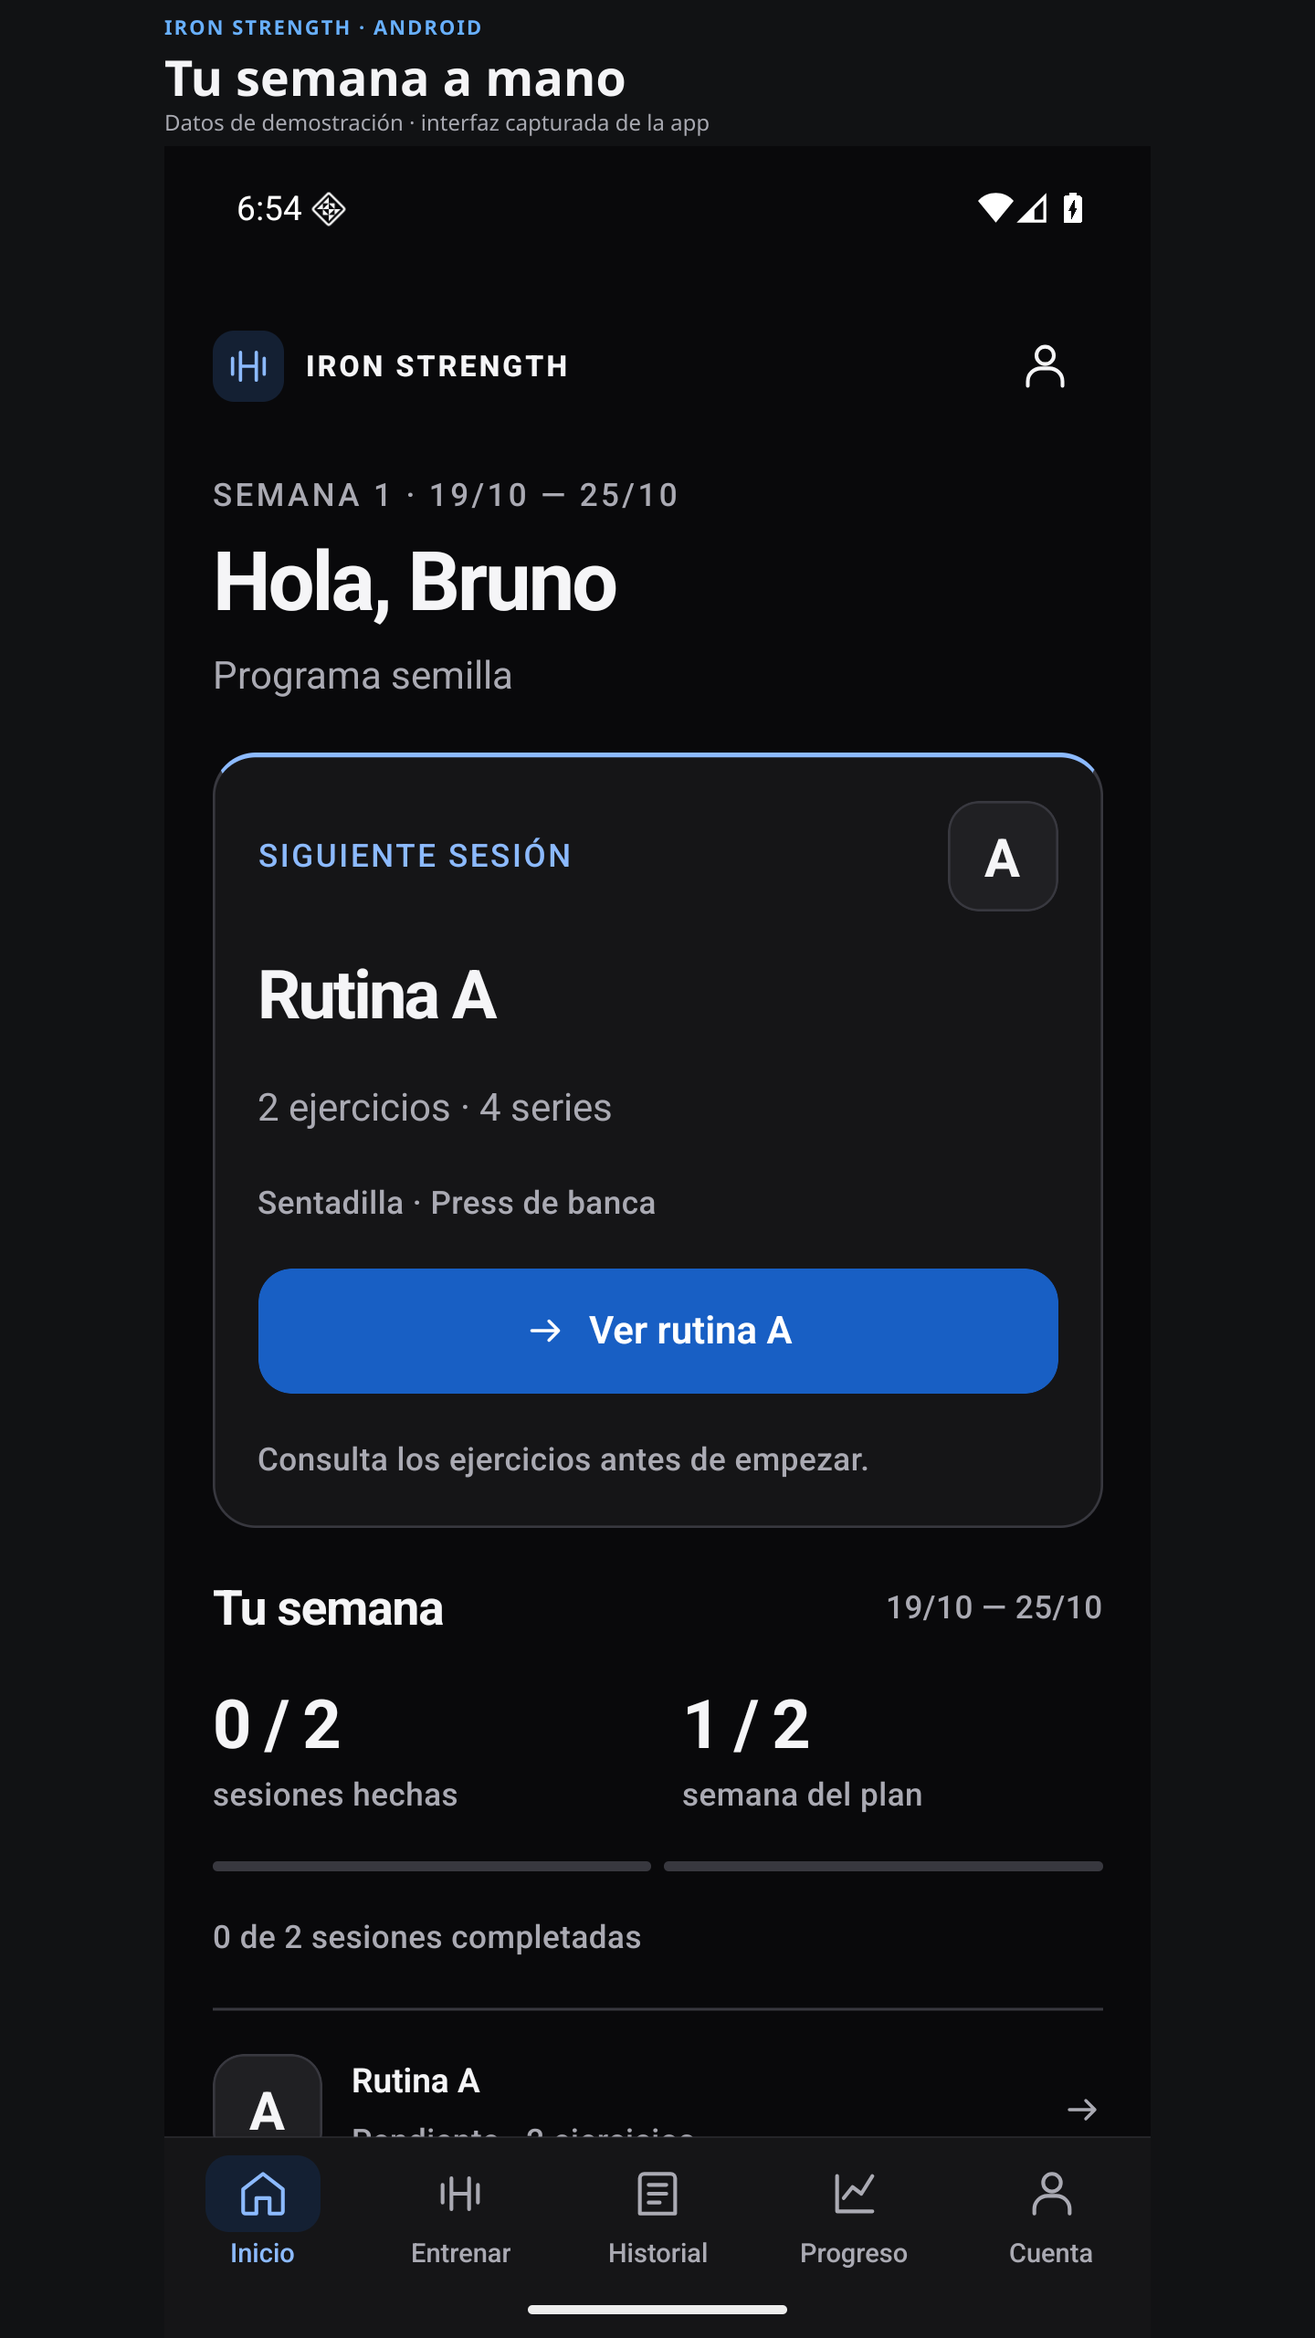
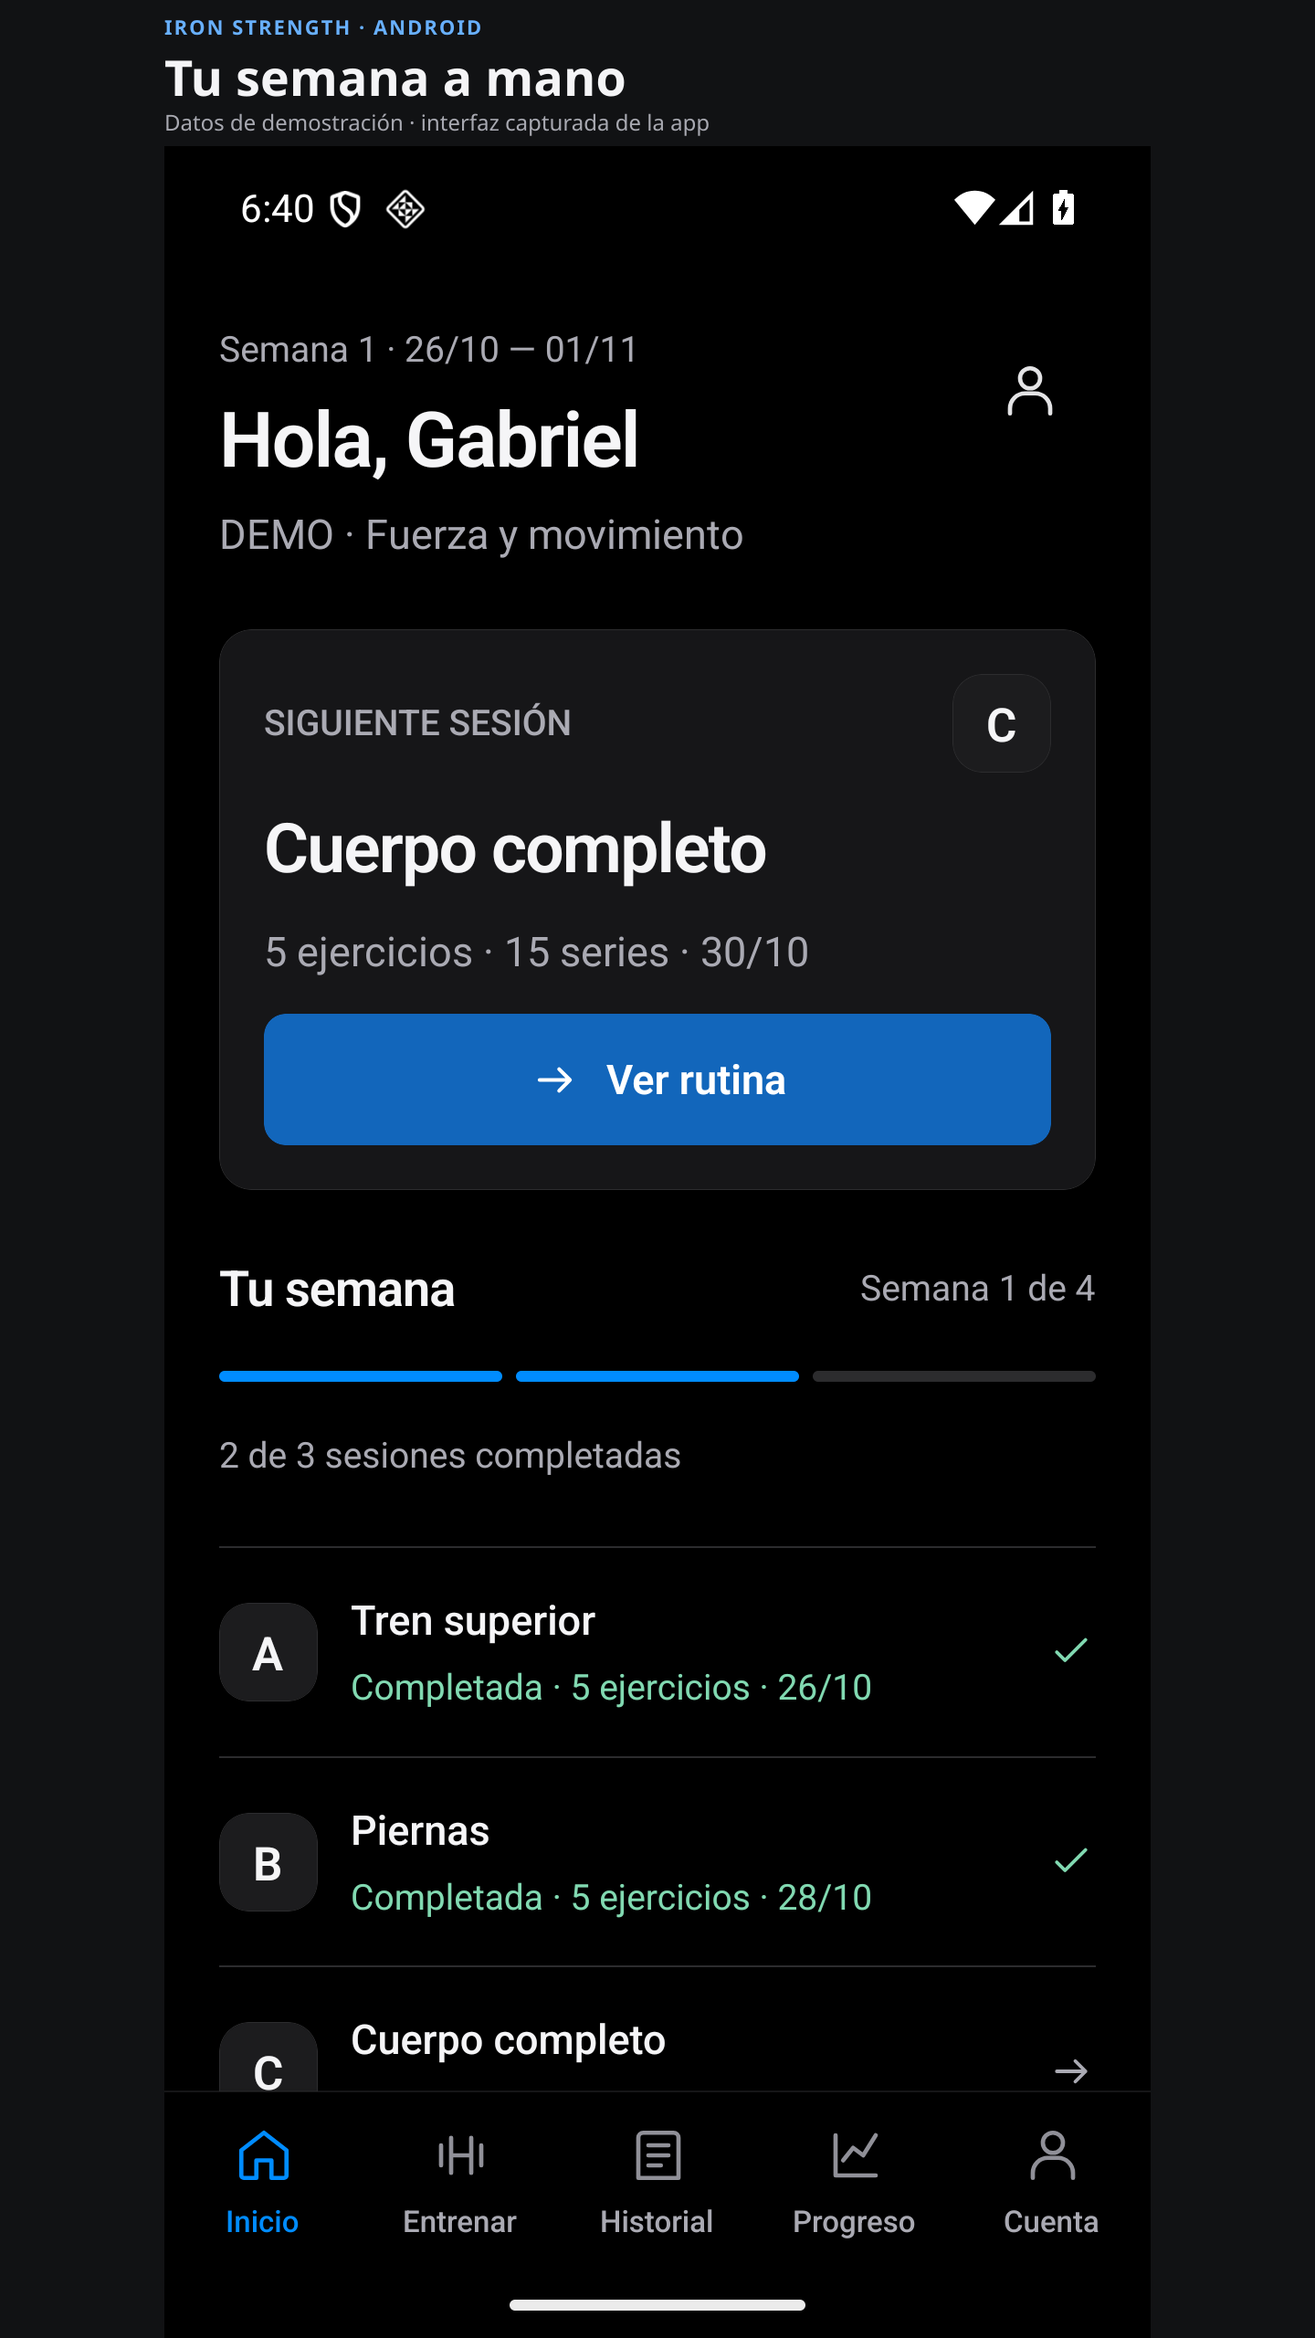
T203: Refresh native Android store drafts with artifact provenance

diff --git a/specs/009-product-quality/validation.md b/specs/009-product-quality/validation.md
@@ -766,3 +766,15 @@ Capturador corregido: MaestroCLI2.11.0 oficial/hash fijo, mismo simulador propio
[1 lines of base64/hex data omitted]
 
 Entrega Android/iOS de T222 completada en previews; T201/T202 siguen abiertos por sus requisitos físicos/de distribución. Fuente de aplicación estable desde7d9a7e8; cambios posteriores son solo arnés/documentación. Se retiraron solo los dos AVD propios y el staging de compilación Android después de verificar APK/mapas/redescarga; los servidores54321/55321/3104/3105/8087/8090/8091 seguían abiertos antes/después. APK/mapas/archivos originales y datos de demo conservados; claves originales de firma y respaldos ajenos intactos. No se reinició un job vivo ni se repitieron las regresiones sin una corrección nueva que lo justificara.
+
+### T203 · Capturas Android actuales · 30 de octubre
+
+Las cuatro fuentes de ficha anteriores se conservaron privadamente antes de sustituirlas. APK local quality9, fuente a1c5d27, Expo58.0.21/RN0.88.1, identidad .quality exclusiva y origen QA3105→3104→55321. Contador9 solo en staging; distribución Android sigue6 e iOS8. Hermes del APK idéntico al generado, mapa compuesto/197contenidos propios y904archivos de aplicación cotejados, incluida T222; mismo certificado QA, permisos conservados,28bibliotecas x86_64/ZIP alineadas16KB. No se subió a EAS ni se confundió con el instalador de alumnos. Huellas técnicas públicas cerradas en source/capture.json.
+
+Actualización8→9 en el AVD propio4KB sin desinstalar: UID/marcador y un archivo SQLite idénticos. Acceso nativo normal con el alumno ficticio existente de la demo; Inicio oscuro/claro conserva2/3sesiones, sesiónC de5ejercicios/15series. Registro local40kg×10, check circular y descanso1:28 capturados; Progreso muestra el volumen existente de675kg en12semanas con un único punto, sin fabricar historial. Cuatro originales1080×2400 revisados y capturados con adb exec-out screencap. El borrador exclusivo de captura se descartó mediante la confirmación de la app, no finalizado/enviado; sus dos endpoints de resultados devolvieron404. Apariencia oscura restaurada y19filas SQLite previas byte por byte conservadas. Sin semillas/reset, usuarios nuevos, cambios de rutinas o resultados remotos; ningún cambio productivo.
+
+Incidencias conservadas: primer arranque System UI resuelto con Wait, sin atribuirlo a un crash de la app. Una lectura uiautomator falló al obtener estado idle con el cronómetro y el arnés anterior releyó XML antiguo; la captura actual y SQLite confirmaron entrenamiento abierto/guardado, sin reproducir bloqueo del inicio. El helper ahora exige archivo XML único y confirmación de dump nuevo. Un gesto automático de scroll activó el campo de repeticiones y no encontró el descarte; sin cambios de valores, se cerró teclado y se navegó con controles observados hasta confirmar. Las consultas sqlite3 nativas del arnés agotaron tiempo; app detenida y SQLite/journal copiados privadamente para lectura local, sin escrituras SQL. No presentar las observaciones fallidas como pruebas del producto aprobadas.
+
+El generador verifica campos técnicos cerrados y las cuatro huellas antes de sustituir salidas. Dos controles negativos en copias privadas (campo extra y hash de imagen incorrecto) rechazados, conservando todas las composiciones/manifiesto anteriores. Generación normal aprobada: cuatro1440×2560RGB y gráfico1024×500RGB, textos alternativos≤140, extracción RGB idéntica a cada fuente completa. Las cinco exportaciones se revisaron visualmente; hora/barras/indicador QA sin ocultar. Son materiales provisionales, no capturas del AAB de producción ni de iPhone.
+
+Evidencia privada: t203-quality9-{apk-proof,install-proof,login-proof}, t203-capture-state-proof, t203-generator-guards-proof, t203-current-captures y t203-previous-store-assets. T203 conserva pendientes formularios/acceso dedicado del revisor/beta/materiales finales y captura funcional iOS actual. Cierre: npm run check terminal0 a10:19:56UTC,1430unitarias/182archivos,14Python/build; diez avisos de lint anteriores, cero errores.1286fuentes idénticas entre origen y copia propia de verificación. La primera supervisión terminó143 después de los mensajes finales del build, sin recibo terminal: conservada como interrumpida, no aprobada; repetición completa con supervisor persistente terminal0 y huellas estables. Evidencia t203-check-{first-state,state,source-private}, t203-root-check-first.log y t203-root-check.log. Se cerró solo el AVD propio5564 y retiró su compilación Android generada tras volver a comprobar APK/bundle/mapa; servidores/puertos del propietario iguales antes/después, SQLite y evidencia conservados. Producción permanece en el build publicado de T221. No se repitieron suites destructivas sobre55321 ni pruebas de aplicación sin cambios en su código.

diff --git a/docs/store-release/assets/google-play/README.md b/docs/store-release/assets/google-play/README.md
@@ -1,20 +1,22 @@
 # Google Play · candidatos de ficha
 
-Cuatro composiciones Android y un gráfico de presentación, todavía sin subir. Las capturas proceden del APK quality de T202 con cuentas ficticias de la base aislada; muestran funciones reales, no el prototipo HTML. No contienen datos de alumnos reales. Son referencias de preparación, no evidencia de aprobación de la tienda.
+Cuatro composiciones Android y un gráfico de presentación, todavía sin subir. Las capturas se actualizaron el 30 de octubre desde el APK quality9, compilado desde a1c5d27 con Expo 58.0.21 / React Native 0.88.1. Incluyen la corrección T222 y usan una cuenta ficticia ya existente en la base aislada. Muestran la interfaz nativa funcional, sin datos de alumnos reales. Siguen siendo candidatos de preparación; no acreditan aprobación de la tienda ni aceptación en teléfonos.
 
-| Archivo             | Contenido                                     | Tamaño      |
-| ------------------- | --------------------------------------------- | ----------- |
-| 01-home-dark.png    | Inicio y siguiente rutina, oscuro             | 1440 × 2560 |
-| 02-workout.png      | Registro con objetivos por serie y superserie | 1440 × 2560 |
-| 03-progress.png     | Volumen de doce semanas y acceso a resultados | 1440 × 2560 |
-| 04-home-light.png   | Inicio claro con texto ampliado               | 1440 × 2560 |
-| feature-graphic.png | Ilustración vectorial de presentación         | 1024 × 500  |
+| Archivo             | Contenido                             | Tamaño      |
+| ------------------- | ------------------------------------- | ----------- |
+| 01-home-dark.png    | Inicio y siguiente rutina, oscuro     | 1440 × 2560 |
+| 02-workout.png      | Serie registrada y descanso activo    | 1440 × 2560 |
+| 03-progress.png     | Volumen de doce semanas               | 1440 × 2560 |
+| 04-home-light.png   | Inicio y siguiente rutina, claro      | 1440 × 2560 |
+| feature-graphic.png | Ilustración vectorial de presentación | 1024 × 500  |
 
-Todas las exportaciones son PNG RGB, sin canal alfa. Cada composición conserva los 1080 × 2400 píxeles de la captura completa, sin escala, recorte o cambios, y añade encabezado y márgenes fuera de ella. El gráfico de presentación es una ilustración, no una pantalla de la app. El texto «Datos de demostración» identifica las cuentas ficticias; el gráfico de progreso conserva sus valores reales de prueba, incluso su descenso.
+Todas las exportaciones son PNG RGB, sin canal alfa. Cada composición conserva los 1080 × 2400 píxeles de la captura completa, sin escala, recorte o cambios, y añade encabezado y márgenes fuera de ella. El gráfico de presentación es una ilustración, no una pantalla de la app. El texto «Datos de demostración» identifica la cuenta ficticia. El gráfico conserva los datos existentes, incluido su único punto; no se inventaron resultados para llenarlo. El borrador usado para capturar una serie y su descanso se descartó después desde la propia app, sin enviar el entrenamiento.
 
 ## Reproducción y comprobación
 
-Desde la raíz: `node docs/store-release/generate-google-play.mjs`. Usa Sharp y Prettier existentes y Noto Sans instalada en el sistema, sin descargar fuentes o añadir dependencias. Los originales están en source; el SVG de presentación también es editable. El generador comprueba dimensiones, canales y textos alternativos de hasta 140 caracteres. Extrae el rectángulo de interfaz y compara todos sus píxeles RGB con el original; un cambio falla la generación. manifest.json registra origen, dimensiones y SHA-256 tanto de fuentes como de exportaciones.
+Desde la raíz: `node docs/store-release/generate-google-play.mjs`. Usa Sharp y Prettier existentes y Noto Sans instalada en el sistema, sin descargar fuentes o añadir dependencias. Los originales están en source; el SVG de presentación también es editable. `source/capture.json` vincula las cuatro imágenes al APK, bundle Hermes, mapa compuesto, certificado y commit inspeccionados. Solo admite campos técnicos explícitos: no añadir credenciales, identificadores de cuentas o rutas privadas. El generador rechaza campos ajenos y verifica las cuatro huellas antes de sustituir composiciones.
+
+También comprueba dimensiones, canales y textos alternativos de hasta 140 caracteres. Extrae el rectángulo de interfaz y compara todos sus píxeles RGB con el original; un cambio falla la generación. manifest.json registra la procedencia, dimensiones y SHA-256 tanto de fuentes como de exportaciones. El APK quality9 tiene identidad exclusiva de QA y no reemplaza el instalador preview6 ni es un candidato de producción.
 
 Se revisaron visualmente las cinco exportaciones: títulos legibles, interfaz completa y distinción entre Android, demostración e ilustración. Las barras del sistema conservan la hora y el indicador de QA de las capturas originales. Antes del envío, recapturar desde el candidato de producción con notificaciones despejadas y datos de revisión adecuados; contrastar el contenido con ese binario y la consola. No ocultar indicadores reconstruyendo la interfaz. Las capturas iPhone siguen pendientes y no se sustituyen por estas imágenes.
 

diff --git a/specs/009-product-quality/tasks.md b/specs/009-product-quality/tasks.md
@@ -19,7 +19,7 @@ Acceso Supabase desde Codex resuelto el 25-oct-2026 mediante el conector autoriz
 - [x] T200 · Productividad web con posición por pestaña, guardado explícito por teclado y acabado compacto; 40 acciones frente a 95, software verificado y publicado en L. Aceptación física separada.
 - [ ] T201 · Previews vigentes con T222: Android6 firmado, subido/redescargado idéntico y actualizado5→6 sin desinstalar en4/16KB, conservando UID/marcador/SQLite y acceso frío offline. iOS simulador8: bundle/mapa/recibo y198archivos de app verificados; arranque, reapertura y tres capturas nativas de acceso claro/oscuro aprobados con revisión original separada. Primeros avisos System UI de Android e imágenes negras de simctl iOS conservados, sin presentarlos como pasadas limpias. Circuito autenticado quality7 histórico separado; pendientes firma iPhone/cuentas y aceptación física.
 - [ ] T202 · T221 conserva cuatro actores nativos/20 series. SDK actual verificado con quality8: nueve tipos, recuperación fría de series/foco/descanso, SQLite→API→SQL, dos reintentos sin duplicados y RLS de cuatro cuentas;239 Chromium+239 WebKit en fases diferenciadas. Mapas reales actuales Android6/iOS8 con197contenidos propios cada uno y recibo iOS ligados a los bundles. Acceso nativo iOS8 sin sesión verificado; circuito autenticado quality7 con documento2/respuesta perdida/RLS es evidencia histórica separada.463pruebas móviles/1430raíz/14Python/build,22E2E de reconexión y ocho accesos reales de demo aprobados. Avisos de herramientas conservados. Pendientes candidato de producción, CI y aceptación física.
-- [ ] T203 · Contacto público autorizado y páginas de privacidad/soporte/eliminación verificadas/publicadas en M; enlaces nativos verificados en software. Ficha, iconos, cuatro capturas Android y gráfico preparados; pendientes formularios, accesos, beta y materiales finales.
+- [ ] T203 · Contacto público autorizado y páginas de privacidad/soporte/eliminación verificadas/publicadas en M; enlaces nativos verificados en software. Ficha/iconos preparados; cuatro capturas Android actuales desde quality9/T222 con procedencia APK/mapa y píxeles originales verificados. Gráfico preparado; pendientes capturas funcionales iOS actuales, formularios, acceso del revisor, beta y materiales finales del candidato.
 - [ ] T204 · Procedimiento y registro del candidato preparados; pendientes AAB/IPA de producción, beta y publicación del mismo artefacto probado.
 - [ ] T205 · Control manual, restauración y copia cifrada nueva verificados; 30 días, respaldo semanal/previo a migraciones y caducidad diaria configurados. Primera caducidad programada ejecutada sin errores/eliminaciones; pendientes primera copia semanal programada y circuito operativo de beta; responsable/contacto autorizados en T203. Clave local elegida, sin copia externa.
 

diff --git a/AGENTS.md b/AGENTS.md
@@ -608,3 +608,7 @@ T201 estado posterior: ambos binarios7d9a7e8 terminados/inspeccionados con197con
 Primer workflow iOS8 ya terminalSUCCESS01a18bfe-6d1c-72eb-9b8d-03c0bdd5630c: proceso/reapertura/limpieza sí, sus tres capturas negras no acreditan acceso/temas. Originales conservados. Arnés cambia a captura/afirmaciones nativas de solo lectura con el MaestroCLI2.11.0 ya usado, sin credenciales o borrado y con rechazo de oscuro/claro idénticos.463pruebas móviles, raíz1430/14Python/build y sintaxis3flujos aprobados; falta ejecutar/revisar este capturador. No repetir ni reconstruir el binario anterior; usar exactamente el build8/ID/hash fijados. No afirmar aceptación visual por SUCCESS ni arrancar otro job mientras este nuevo intento no sea terminal.
 
 Cierre vigente: segundo workflow iOS8 `01a18c09-e5be-7e31-b65c-36c99e36ca35` terminóSUCCESS con arnés18d2fb6; proceso/acceso nativo sin credenciales/oscuro/claro/reapertura/limpieza aprobados. Tres PNG originales revisados, recibo automático uiContentVerified=false conservado y revisión externa separada verdadera; widgets Duo y límites físicos/AA explícitos. Previews actuales Android6 e iOS simulador8 desde7d9a7e8 sí incluyenT222, fuente/mapas/recibos contrastados. No reanudar los jobs terminales ni recrear el proxy QA3106 o sus secretos retirados. AVD4/16KB y staging Android propios retirados, artefactos verificados y servidores de demo/Go preservados. T201/T202 no completos por firma/tiendas/teléfonos/CI; quality7 autenticado sigue evidencia histórica. Ver docs/native-distribution.md/spec009/validation.md para IDs exactos y límites.
+
+T203 actualiza cuatro capturas Android desde quality9 local/a1c5d27/SDK58.0.21, sin cambiar distribución6/iOS8. Bundle/mapa/197contenidos propios y904fuentes contrastados; actualización sin desinstalar conserva SQLite/UID. Demo existente, solo un borrador local de captura descartado desde UI;19filas previas exactas y404en ambos endpoints del resultado. Origen técnico cerrado en source/capture.json, píxeles originales completos y guardas negativas del generador aprobados. Anteriores retenidos privadamente. Son candidatos QA; no reemplazan pruebas físicas, captura funcional iOS, formularios/beta/tiendas. Ver spec009/validation.md antes de continuar.
+
+Cierre de estas capturas T203: check1430/14Python/build terminal0 y1286fuentes estables; primer supervisor143 conservado y repetición completa aprobada. AVD5564 y compilación Android propia retirados después de revalidar artefactos;19registros previos/evidencia/servidores de demo conservados. Sin cambios de aplicación, SQL o producción; no ampliar las capturas a una aceptación física o de tienda.
